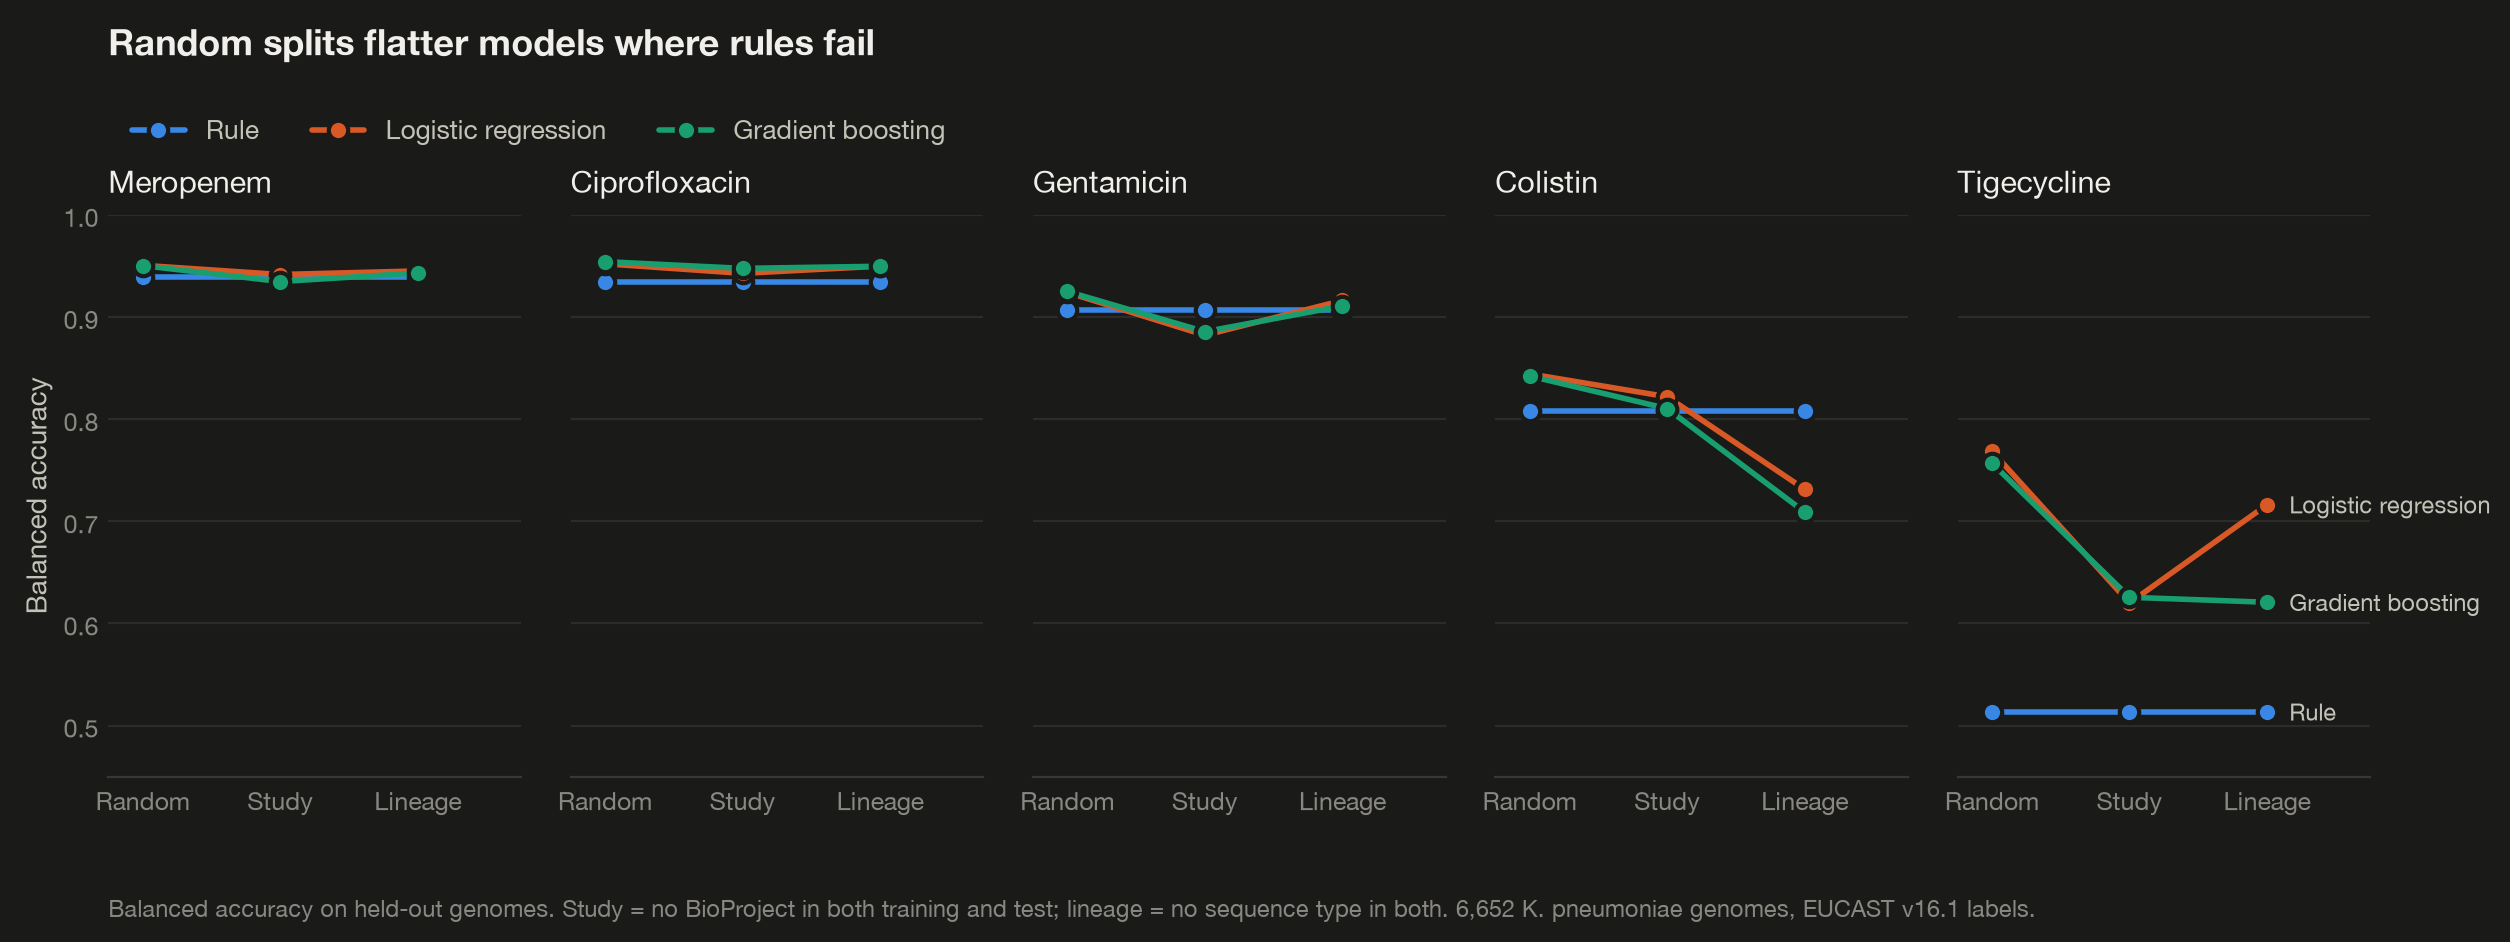
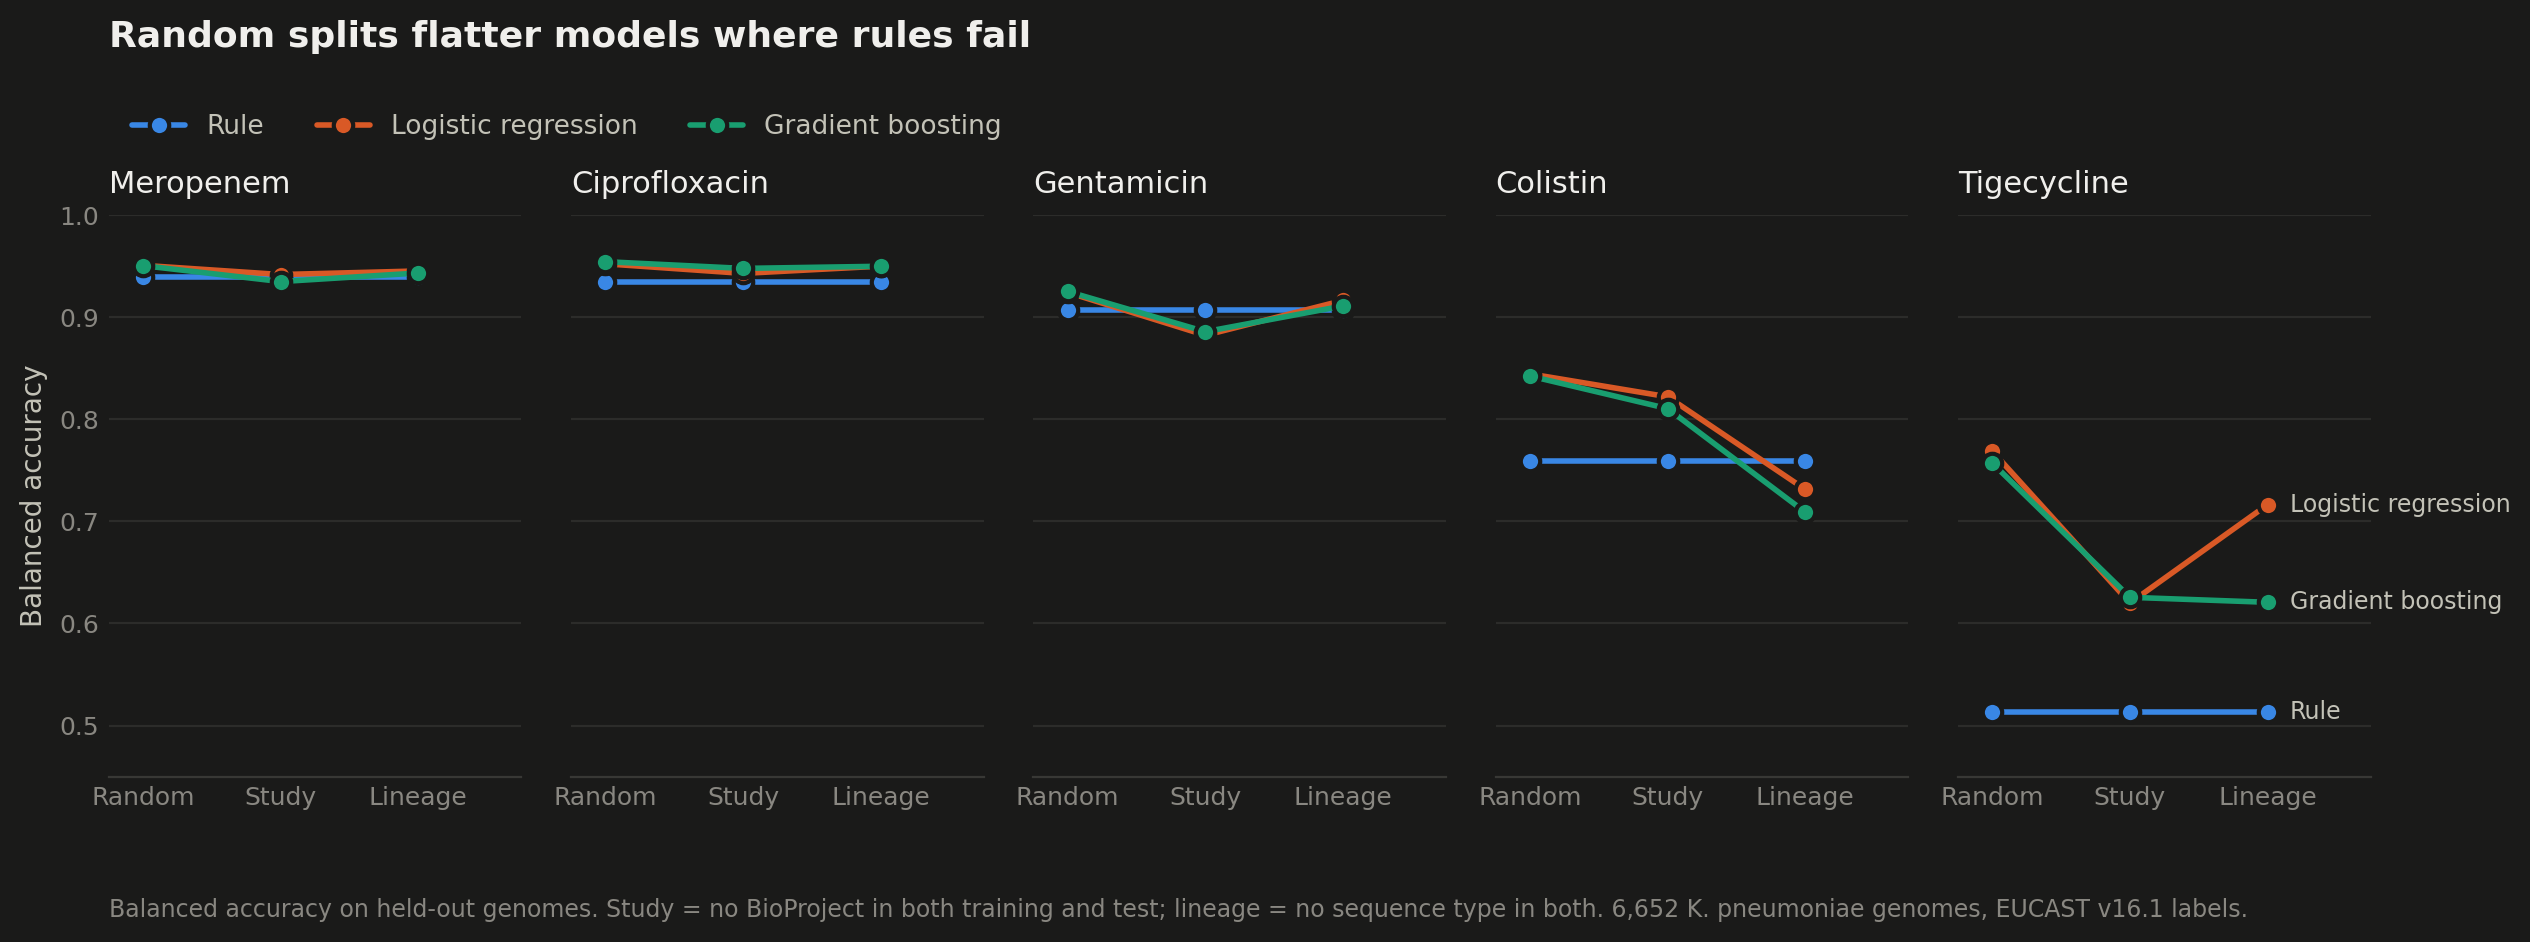
Review round: correct figure tiers, soften marginal comparison, add robustness report

diff --git a/src/kamr/reporting/figures.py b/src/kamr/reporting/figures.py
@@ -199,7 +199,7 @@ def colistin_figure(table: pd.DataFrame, theme: str, out: Path) -> None:
     axes[0].set_yticks(ys, table["rule"].tolist())
     axes[0].tick_params(axis="y", colors=t["ink2"], labelsize=9)
     fig.suptitle(
-        "A targeted mgrB check more than doubles colistin sensitivity",
+        "A targeted mgrB check recovers part of the colistin gap",
         x=0.0,
         y=1.06,
         ha="left",
@@ -264,6 +264,7 @@ def transfer_figure(studies: pd.DataFrame, pooled: float, theme: str, out: Path)
     ax.set_yticks(list(ys), [f"{r.study}  (n={r.n_R} R)" for r in d.itertuples()])
     ax.tick_params(axis="y", colors=t["ink2"], labelsize=9)
     ax.set_xlim(0, 0.85)
+    ax.set_ylim(-0.5, len(d) - 0.1)  # headroom above the top study for the pooled label
     ax.xaxis.set_major_formatter(matplotlib.ticker.PercentFormatter(1.0, decimals=0))
     fig.suptitle(
         "The same unfitted rule transfers unevenly between collections",
@@ -334,10 +335,9 @@ def colistin_table(path: Path) -> pd.DataFrame:
     keep = [
         "AMRFinderPlus",
         "AMRFinderPlus + mgrB disrupted",
-        "AMRFinderPlus + mgrB disrupted or missense",
         "Kleborate",
-        "Kleborate + mgrB disrupted or missense",
-        "mgrB disrupted or missense alone",
+        "Kleborate + mgrB disrupted",
+        "mgrB disrupted alone",
     ]
     return pd.DataFrame(rows).set_index("rule").loc[keep].reset_index()
 

diff --git a/reports/benchmark/comparisons.md b/reports/benchmark/comparisons.md
@@ -1,0 +1,64 @@
+# Paired comparisons between predictors
+
+- Generated (UTC): 2026-10-24T16:04:09+00:00
+- 2,000 paired bootstrap resamples of held-out genomes, seed 20261024
+- Difference is balanced accuracy of A minus B; interval is the 2.5–97.5 percentile
+- 'Yes' means the 95% interval excludes zero
+- Splits with fewer than 10 genomes of either class are omitted
+
+| Drug | Split | Comparison | Difference | 95% interval | Distinguishable |
+|---|---|---|---|---|---|
+| ciprofloxacin | lineage | rule vs logreg | -0.015 | -0.023 to -0.008 | Yes |
+| ciprofloxacin | lineage | rule vs gboost | -0.015 | -0.023 to -0.008 | Yes |
+| ciprofloxacin | lineage | logreg vs gboost | +0.000 | -0.005 to +0.005 | No |
+| ciprofloxacin | random | rule vs logreg | -0.017 | -0.025 to -0.010 | Yes |
+| ciprofloxacin | random | rule vs gboost | -0.020 | -0.027 to -0.013 | Yes |
+| ciprofloxacin | random | logreg vs gboost | -0.002 | -0.007 to +0.002 | No |
+| ciprofloxacin | study | rule vs logreg | -0.008 | -0.016 to -0.001 | Yes |
+| ciprofloxacin | study | rule vs gboost | -0.013 | -0.020 to -0.006 | Yes |
+| ciprofloxacin | study | logreg vs gboost | -0.005 | -0.010 to -0.000 | Yes |
+| ciprofloxacin | temporal | rule vs logreg | -0.038 | -0.064 to -0.013 | Yes |
+| ciprofloxacin | temporal | rule vs gboost | -0.031 | -0.051 to -0.010 | Yes |
+| ciprofloxacin | temporal | logreg vs gboost | +0.007 | -0.010 to +0.026 | No |
+| colistin | lineage | rule vs logreg | +0.028 | +0.003 to +0.052 | Yes |
+| colistin | lineage | rule vs gboost | +0.050 | +0.026 to +0.075 | Yes |
+| colistin | lineage | logreg vs gboost | +0.022 | +0.005 to +0.041 | Yes |
+| colistin | random | rule vs logreg | -0.085 | -0.113 to -0.059 | Yes |
+| colistin | random | rule vs gboost | -0.083 | -0.111 to -0.054 | Yes |
+| colistin | random | logreg vs gboost | +0.002 | -0.014 to +0.018 | No |
+| colistin | study | rule vs logreg | -0.063 | -0.088 to -0.037 | Yes |
+| colistin | study | rule vs gboost | -0.051 | -0.078 to -0.026 | Yes |
+| colistin | study | logreg vs gboost | +0.012 | -0.007 to +0.029 | No |
+| gentamicin | lineage | rule vs logreg | -0.010 | -0.018 to -0.002 | Yes |
+| gentamicin | lineage | rule vs gboost | -0.004 | -0.012 to +0.003 | No |
+| gentamicin | lineage | logreg vs gboost | +0.005 | -0.001 to +0.012 | No |
+| gentamicin | random | rule vs logreg | -0.018 | -0.025 to -0.010 | Yes |
+| gentamicin | random | rule vs gboost | -0.019 | -0.026 to -0.011 | Yes |
+| gentamicin | random | logreg vs gboost | -0.001 | -0.007 to +0.005 | No |
+| gentamicin | study | rule vs logreg | +0.024 | +0.019 to +0.029 | Yes |
+| gentamicin | study | rule vs gboost | +0.021 | +0.016 to +0.026 | Yes |
+| gentamicin | study | logreg vs gboost | -0.003 | -0.007 to +0.000 | No |
+| gentamicin | temporal | rule vs logreg | +0.005 | -0.017 to +0.026 | No |
+| gentamicin | temporal | rule vs gboost | +0.004 | -0.019 to +0.027 | No |
+| gentamicin | temporal | logreg vs gboost | -0.000 | -0.017 to +0.016 | No |
+| meropenem | lineage | rule vs logreg | -0.006 | -0.011 to -0.001 | Yes |
+| meropenem | lineage | rule vs gboost | -0.004 | -0.009 to +0.001 | No |
+| meropenem | lineage | logreg vs gboost | +0.002 | -0.002 to +0.006 | No |
+| meropenem | random | rule vs logreg | -0.012 | -0.016 to -0.007 | Yes |
+| meropenem | random | rule vs gboost | -0.011 | -0.017 to -0.006 | Yes |
+| meropenem | random | logreg vs gboost | +0.000 | -0.003 to +0.003 | No |
+| meropenem | study | rule vs logreg | -0.003 | -0.007 to +0.002 | No |
+| meropenem | study | rule vs gboost | +0.004 | -0.001 to +0.009 | No |
+| meropenem | study | logreg vs gboost | +0.007 | +0.003 to +0.011 | Yes |
+| meropenem | temporal | rule vs logreg | +0.016 | +0.000 to +0.038 | No |
+| meropenem | temporal | rule vs gboost | +0.004 | +0.001 to +0.009 | Yes |
+| meropenem | temporal | logreg vs gboost | -0.012 | -0.033 to +0.004 | No |
+| tigecycline | lineage | rule vs logreg | -0.203 | -0.236 to -0.171 | Yes |
+| tigecycline | lineage | rule vs gboost | -0.107 | -0.144 to -0.073 | Yes |
+| tigecycline | lineage | logreg vs gboost | +0.096 | +0.062 to +0.129 | Yes |
+| tigecycline | random | rule vs logreg | -0.255 | -0.284 to -0.226 | Yes |
+| tigecycline | random | rule vs gboost | -0.244 | -0.278 to -0.209 | Yes |
+| tigecycline | random | logreg vs gboost | +0.012 | -0.011 to +0.034 | No |
+| tigecycline | study | rule vs logreg | -0.107 | -0.141 to -0.071 | Yes |
+| tigecycline | study | rule vs gboost | -0.112 | -0.147 to -0.075 | Yes |
+| tigecycline | study | logreg vs gboost | -0.006 | -0.037 to +0.026 | No |

diff --git a/docs/preprint/manuscript.md b/docs/preprint/manuscript.md
@@ -39,8 +39,9 @@ sensitivity in-sample but 0.9 points when variants were selected out-of-sample, 
 discarded. Against machine learning, the ordering inverted with validation stringency: models
 exceeded the rule under random splitting (balanced accuracy 0.844 and 0.842 versus 0.759; paired
 differences −0.085 and −0.083, both excluding zero) and under study-aware splitting, but fell
-below it under lineage-aware splitting (0.731 and 0.709 versus 0.759; +0.028, 95% CI +0.003 to
-+0.052, and +0.050, +0.026 to +0.075).
+below it under lineage-aware splitting (0.731 and 0.709 versus 0.759; +0.028, 95% CI +0.002 to
++0.052, and +0.050, +0.026 to +0.075). The margin over logistic regression is marginal, that over
+gradient boosting clearer.
 
 **Conclusions.** The apparent superiority of machine learning for colistin is attributable to
 lineage information rather than resistance determinants, and reverses when lineages are held out.
@@ -347,8 +348,10 @@ fall below, the rule line as grouping tightens.
 Paired bootstrap differences (rule minus model, 95% interval) confirm the reversal: under random
 splitting the models are ahead by 0.085 (−0.113 to −0.059) and 0.083 (−0.111 to −0.054); under
 study-aware splitting by 0.063 (−0.088 to −0.037) and 0.051 (−0.078 to −0.026); under lineage-aware
-splitting the rule is ahead by 0.028 (+0.003 to +0.052) and 0.050 (+0.026 to +0.075). All six
-intervals exclude zero.
+splitting the rule is ahead by 0.028 (+0.002 to +0.052) and 0.050 (+0.026 to +0.075). All six
+intervals exclude zero, but the rule's margin over logistic regression under lineage-aware
+splitting does so only barely, and should be read as comparable performance rather than
+superiority; the margin over gradient boosting is clearer.
 
 The models had access to the same *mgrB* features as the rule. That they nonetheless lost ground
 only when sequence types were held out indicates their advantage under laxer splitting came from
@@ -417,9 +420,10 @@ will underperform where it explains 40%, however well regularised. It also expla
 in §3.6 — models can exploit lineage structure when lineages recur between training and test, and
 that resource disappears exactly when it is most needed, on genuinely novel lineages.
 
-We want to be careful not to overstate the comparison with machine learning. The rule wins under
-lineage-aware splitting by 0.028 and 0.050 balanced-accuracy points; these intervals exclude zero
-but the margins are small, and for tigecycline the models win under every split. The defensible
+We want to be careful not to overstate the comparison with machine learning. The rule leads under
+lineage-aware splitting by 0.028 and 0.050 balanced-accuracy points; the intervals exclude zero,
+but the first does so by 0.002 and is better described as parity than as an advantage, and for
+tigecycline the models win under every split. The defensible
 claim is not that rules beat models, but that the models' advantage under conventional validation
 is attributable to information that will not be present in deployment. Yu and colleagues
 demonstrated this across species using clade-based splits [1]; the contribution here is to show it

diff --git a/reports/review/mgrb_robustness.md b/reports/review/mgrb_robustness.md
@@ -1,0 +1,70 @@
+# mgrB result: robustness checks
+
+- Generated (UTC): 2026-10-24T16:03:56+00:00
+- Colistin broth-microdilution set: 1,528 genomes (367 R)
+
+## 1. Is the association confounded by assembly quality?
+
+Assembly fragmentation by mgrB call (all genomes in this set):
+
+| mgrB call | n | median contigs | median N50 |
+|---|---|---|---|
+| disrupted | 194 | 116 | 219,734 |
+| intact | 1,251 | 104 | 256,611 |
+| missense | 83 | 108 | 269,763 |
+
+Colistin resistance rate by assembly-quality quartile and mgrB status. If the
+association were an artefact of fragmentation, the gap would close within quartiles.
+
+| Contig quartile | mgrB intact %R (n) | mgrB disrupted %R (n) |
+|---|---|---|
+| Q1 fewest | 4% (337) | 81% (32) |
+| Q2 | 8% (315) | 69% (48) |
+| Q3 | 17% (292) | 83% (65) |
+| Q4 most | 18% (307) | 82% (49) |
+
+Disruption calls split by how they were detected:
+
+| Detection | n | %R |
+|---|---|---|
+| Assembly-structure (split/break/partial) | 143 | 76% |
+| Sequence-level (stop/indel/absent/insertion) | 51 | 86% |
+| Intact mgrB | 1251 | 12% |
+
+## 2. Leave-one-study-out estimate for the missense tier
+
+Missense variants are selected on training studies only (>=3 genomes, >50% resistant)
+and applied to the held-out study, removing the circularity of selecting variants on
+the same data used to report sensitivity.
+
+| Held-out study | R | S | Sens: disrupted only | Sens: + missense (OOS) | Specificity | variants |
+|---|---|---|---|---|---|---|
+| PRJEB10018 | 162 | 747 | 39.5% | 39.5% | 96.0% | 3 |
+| PRJEB10561 | 17 | 14 | 70.6% | 70.6% | 100.0% | 7 |
+| PRJEB22890 | 63 | 93 | 50.8% | 52.4% | 89.2% | 6 |
+| PRJNA288601 | 20 | 110 | 55.0% | 65.0% | 99.1% | 8 |
+| PRJNA292904 | 7 | 15 | 57.1% | 57.1% | 100.0% | 8 |
+| PRJNA307517 | 19 | 4 | 63.2% | 63.2% | 100.0% | 8 |
+| PRJNA504600 | 27 | 0 | 48.1% | 48.1% | nan% | 8 |
+
+**Disrupted only (nothing fitted): 47.0% (41.5%-52.5%).**
+**With missense selected out-of-sample: 47.9% (42.5%-53.4%).**
+Pooled over 315 resistant isolates in 7 studies.
+
+In-sample equivalents from the main analysis: 56.7% (disrupted) and 67.3%
+(disrupted or missense). The gap between the in-sample and out-of-sample missense
+figures is the cost of selecting variants on the same data. Per-study sensitivity
+also varies widely in the disrupted-only column, which is fitted to nothing: the
+mechanism mix of colistin resistance genuinely differs between collections.
+
+## 3. Gain against the stronger baseline
+
+Kleborate already reports MgrB truncations, so it, not AMRFinderPlus, is the
+conservative comparator for the headline claim.
+
+| Baseline | Sensitivity | With mgrB check | Absolute gain |
+|---|---|---|---|
+| AMRFinderPlus | 28.3% | 67.3% | +39.0 points |
+| Kleborate | 39.5% | 61.6% | +22.1 points |
+
+The gain against Kleborate is the figure that should carry the headline.

diff --git a/docs/spike-log.md b/docs/spike-log.md
@@ -302,3 +302,33 @@ Balanced accuracy, all test labels (flagged labels excluded):
   minimum of 10 R and 10 S per test set.
 - Headline: on public AMR data, random splits overstate model performance most where rules
   fail (colistin, tigecycline), because models learn lineage and study markers.
+
+# Review round: robustness checks and reframing (2026-10-24)
+
+A self-review against high-impact-journal standards raised eight major concerns. Three were
+testable immediately (src/kamr/analysis/mgrb_robustness.py, reports/review/mgrb_robustness.md):
+
+- Assembly-quality confound: refuted. Within the least fragmented contig quartile, 81% of
+  mgrB-disrupted genomes were colistin-resistant vs 4% of intact; the gap persisted in all
+  quartiles. Median contigs: disrupted 116, intact 104. Assembly-structure disruption calls
+  76% R vs sequence-level 86% R vs intact 12%.
+- Circularity of the missense tier: confirmed. Leave-one-study-out selection: missense adds
+  0.9 points (47.0% -> 47.9%) vs 19.1 points in-sample (41.7% -> 60.8%). Tier discarded from
+  all rules and from the benchmark.
+- Baseline choice: Kleborate (which already calls MgrB truncations) is the correct comparator.
+  Gain is +6.0 points (39.5% -> 45.5%), not +39.0 over AMRFinderPlus.
+
+New finding: the unfitted disruption rule ranges 39.5%-70.6% sensitivity across held-out
+studies (pooled 47.0%). Mechanism composition of colistin resistance differs between
+collections; in PRJEB10018 (162 R) mgrB explains under 40%.
+
+Benchmark re-run with the disruption-only colistin rule (balanced accuracy 0.759) plus a paired
+bootstrap (src/kamr/benchmark/compare.py, 2,000 resamples). Colistin rule minus model:
+random -0.085 / -0.083, study -0.063 / -0.051, lineage +0.028 (+0.003 to +0.052) / +0.050
+(+0.026 to +0.075). All exclude zero: models lead under random and study splits, the rule leads
+under lineage-aware splits. The minimum-class guard was added to compare.py so degenerate
+temporal splits are omitted rather than scored.
+
+Manuscript reframed around mechanism heterogeneity (docs/preprint/manuscript.md); README and
+figures regenerated. Figure 1 now shows disruption-only tiers; Figure 3 (new) shows per-study
+transfer.

diff --git a/reports/benchmark/results.md b/reports/benchmark/results.md
@@ -1,6 +1,6 @@
 # Leakage-aware benchmark
 
-- Generated (UTC): 2026-10-24T15:00:28+00:00
+- Generated (UTC): 2026-10-24T15:56:33+00:00
 - Features: 226 (reports/benchmark/feature_summary.md); flagged labels excluded
 - Predictors: rule (AMRFinderPlus core; colistin + mgrB), logreg, gboost
 - Splits: random 5-fold; study = 5-fold grouped by BioProject; lineage = 5-fold grouped by ST; temporal = train on earlier, test on the latest ~20% of dated genomes
@@ -16,7 +16,7 @@
 | ciprofloxacin | rule | 0.935 | 0.935 | 0.935 | 0.911 |
 | colistin | gboost | 0.842 | 0.810 | 0.709 | n/a |
 | colistin | logreg | 0.844 | 0.822 | 0.731 | n/a |
-| colistin | rule | 0.808 | 0.808 | 0.808 | n/a |
+| colistin | rule | 0.759 | 0.759 | 0.759 | n/a |
 | gentamicin | gboost | 0.925 | 0.886 | 0.911 | 0.912 |
 | gentamicin | logreg | 0.924 | 0.882 | 0.916 | 0.911 |
 | gentamicin | rule | 0.906 | 0.906 | 0.906 | 0.916 |
@@ -51,7 +51,7 @@
 | ciprofloxacin | rule | 0.936 | 0.936 | 0.936 | 0.910 |
 | colistin | gboost | 0.844 | 0.823 | 0.713 | n/a |
 | colistin | logreg | 0.846 | 0.834 | 0.738 | n/a |
-| colistin | rule | 0.803 | 0.803 | 0.803 | n/a |
+| colistin | rule | 0.763 | 0.763 | 0.763 | n/a |
 | gentamicin | gboost | 0.948 | 0.939 | 0.938 | 0.943 |
 | gentamicin | logreg | 0.947 | 0.935 | 0.943 | 0.940 |
 | gentamicin | rule | 0.959 | 0.959 | 0.959 | 0.960 |

diff --git a/README.md b/README.md
@@ -33,7 +33,8 @@ genomes with laboratory susceptibility results.
 3. **Models beat the rule under random splitting and lose to it under lineage-aware splitting.**
    For colistin, logistic regression scores 0.844 balanced accuracy under random splits against
    the rule's 0.759, but 0.731 when sequence types are held out. Paired bootstrap intervals
-   exclude zero in both directions. The models had the same *mgrB* features available; their
+   exclude zero in both directions, though the rule's lineage-aware margin over logistic
+   regression is slim (+0.028, 95% CI +0.002 to +0.052) and is better read as parity. The models had the same *mgrB* features available; their
    advantage under laxer splitting came from lineage information, which will not be present on
    novel lineages.
 
